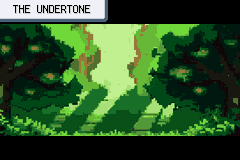
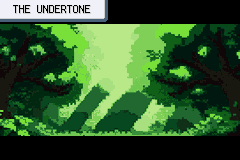
T-445: the place cards approved and built (engine d4a691fd9) -- THE UNDERTONE reseeded (4493), THE SAME BUSH's own card
The user (2026-11-05) approved all four, THE UNDERTONE redrawn first: its shaft's olive-brown streaks were in the
start image -- vanilla edges the light in a pale mint (saturation 0.20) that _region read as rock and the rock ramp
graded brown -- so a place may set white_sat (THE UNDERTONE 0.21) and the mint grades as light; seeds 4490-4495
painted on the clean start image, 4493 picked (no warm colour but near-black, the shaft dim sage, 388 tiles).
PLACES_APPROVED names all four; --write --approved wrote them into the engine, byte-identical to the drafts, a second
write a no-op, report mode writes nothing. Route tools/routes/t445_place_previews.json films each place entered on
foot (GREEN PATH's and BOND BRIDGE's mouths are arrow warps: stand on, hold UP 24). qa 5Nov2026 T445 7-12.

diff --git a/tools/gbapreviews.py b/tools/gbapreviews.py
@@ -76,8 +76,8 @@ the forests and the SAFARI, and --places paints them by the caves' method (vanil
 colours the places are built in now -- THE UNDERTONE's deep understory, DENSE WOOD's golden canopy, the SAFARI's
 grass under LURID's chartreuse -- then painted on the server). THE SAME BUSH (MAPSEC_PATTERN_BUSH) shows THE
 UNDERTONE's picture in the engine; since batch H it is salt scrub on a tileset of its own, so it is drafted as a NEW
-card (pattern_bush, borrowing viridian_forest's letterbox and banner) -- building it is a new INCBIN and a repointed
-MPS_PATTERN_BUSH entry, engine code the user approves first.
+card (pattern_bush, borrowing viridian_forest's letterbox and banner). BUILT 2026-11-05: the user approved all four;
+the engine has pattern_bush's own INCBINs and MPS_PATTERN_BUSH points at them, so --write writes it like the others.
 """
 import argparse, collections, contextlib, io, json, os, re, struct, sys
 sys.path.insert(0, os.path.dirname(os.path.abspath(__file__)))
@@ -233,8 +233,10 @@ PAINT = {
 #  the forests and the SAFARI (--places, drafted 2026-11-05): vanilla's composition graded through the colours each
 #  place is built in now (sampled from reviewsheet's render of its maps), then painted as the caves were. "what" is the
 #  look it is graded from; pattern_bush is a NEW card (THE SAME BUSH shows THE UNDERTONE's picture in the engine).
-#  DRAFTS: nothing is in PLACES_APPROVED, so --write writes none of them.
-PLACES_APPROVED = set()
+#  the user (2026-11-05): "They all look good, and we want to replace all Nintendo art, so I'd say all of them" -- with
+#  THE UNDERTONE redrawn first, its light shaft clean of the olive-brown streaks (white_sat, and a new seed). THE SAME
+#  BUSH's card is its own INCBIN now (sPatternBushMapPreview*, MPS_PATTERN_BUSH repointed to it).
+PLACES_APPROVED = {"viridian_forest", "pattern_bush", "berry_forest", "safari_zone"}
 UNDERTONE = [(16, 30, 22), (28, 52, 34), (42, 82, 44), (58, 112, 56), (88, 150, 80), (132, 188, 84)]
 PLACES = {
     "viridian_forest": dict(
@@ -242,7 +244,8 @@ PLACES = {
         leaf=UNDERTONE, water=[(14, 26, 22), (30, 56, 44), (56, 92, 66)],
         sky=[(82, 112, 78), (150, 176, 120)], white=[(120, 150, 100), (186, 204, 150)],
         rock=[(20, 16, 14), (40, 32, 26), (66, 54, 40), (98, 84, 60), (134, 120, 86)], tex=0.10,
-        seed=4480, denoise=0.48,
+        white_sat=0.21,                 # the shaft's mint edge is light, not rock (it painted olive-brown streaks)
+        seed=4493, denoise=0.48,        # 4480 drafted; 4490-4495 repainted on the clean start image, 4493 picked
         prompt="deep in a forest understory under a heavy dark green canopy, thick dark trunks with twisting "
                "branches, the light from above muted and low, faint dim green shafts, ferns and undergrowth in "
                "shadow, deep green and near-black, a quiet hum of shade",
@@ -405,12 +408,15 @@ def _lum(c):
     return 0.299 * c[0] + 0.587 * c[1] + 0.114 * c[2]
 
 
-def _region(c):
-    """what a pixel of vanilla's painting is: rock (and the ground), white (a lit rock or a cloud), leaf, sky, water"""
+def _region(c, white_sat=0.12):
+    """what a pixel of vanilla's painting is: rock (and the ground), white (a lit rock or a cloud), leaf, sky, water.
+    white_sat (a place's "white_sat"): how grey a bright pixel may be and still be light -- vanilla's forest edges its
+    light shaft in a pale mint (200, 240, 192: saturation 0.20) that the default reads as rock, and the rock ramp
+    graded it into olive-brown streaks down the shaft (the user, 2026-11-05)"""
     import colorsys
     h, sat, v = colorsys.rgb_to_hsv(*[x / 255 for x in c])
     h *= 360
-    if sat < 0.12 and v > 0.85:
+    if sat < white_sat and v > 0.85:
         return "white"
     if 75 <= h <= 170 and sat > 0.2:
         return "leaf"
@@ -438,7 +444,7 @@ def paint_init(folder, sec):
     lums = collections.defaultdict(list)
     for y in range(H):
         for x in range(W):
-            lums[_region(px[x, y])].append(_lum(px[x, y]))
+            lums[_region(px[x, y], c.get("white_sat", 0.12))].append(_lum(px[x, y]))
     rng = {k: (min(l), max(l)) for k, l in lums.items()}
     rock_lo, rock_hi = rng["rock"][0], max(rng["rock"][1], rng.get("white", (0, 0))[1])
     dl = [_lum(dp[x, y]) for y in range(H) for x in range(W)]
@@ -449,7 +455,7 @@ def paint_init(folder, sec):
     for y in range(H):
         for x in range(W):
             p = px[x, y]
-            k = _region(p)
+            k = _region(p, c.get("white_sat", 0.12))
             if k == "white":
                 if c.get("white") == "keep":
                     continue

diff --git a/qa/screenshots/2026-11-05/README.md b/qa/screenshots/2026-11-05/README.md
@@ -19,3 +19,39 @@ THE EUDAIMON LAYER (DRAFT): the cover, BLESSING, and its observer line read in g
 T-445 DRAFT: the name cards. Top, the three key landmarks as built 2026-10-26 (FOUNDRY CO., DAEMON TOWER, DAEMON MANSION) beside vanilla's. Below, drafted 2026-11-05 with gbapreviews.py --places: THE UNDERTONE, THE SAME BUSH (a new card of its own), DENSE WOOD and the SAFARI ZONE, painted in the colours they are built in now; nothing written to the engine.
 
 ![5Nov2026 - T445 - landmark previews - 6](5Nov2026%20-%20T445%20-%20landmark%20previews%20-%206.png)
+
+### 5Nov2026 - T445 - undertone reseeded - 7
+
+T-445: THE UNDERTONE reseeded. The olive-brown streaks were in the start image (vanilla's pale-mint shaft edge read as rock and graded brown), so white_sat 0.21 grades it as light; six seeds painted on the clean start image, 4493 picked (no warm colour but near-black, the shaft dim sage, 388 tiles). Top left: the old seed 4480.
+
+![5Nov2026 - T445 - undertone reseeded - 7](5Nov2026%20-%20T445%20-%20undertone%20reseeded%20-%207.png)
+
+### 5Nov2026 - T445 - place previews built - 8
+
+T-445 built (engine d4a691fd9, not pushed): the four place cards as the DEBUG ROM shows them on entering each place on foot -- THE UNDERTONE (reseeded, 4493) from ROUTE 2's south gate, THE SAME BUSH's own card from GREEN PATH (it showed THE UNDERTONE's), DENSE WOOD from BOND BRIDGE, SAFARI ZONE from its gate. Then each stop's full burst through the fade (route tools/routes/t445_place_previews.json).
+
+![5Nov2026 - T445 - place previews built - 8](5Nov2026%20-%20T445%20-%20place%20previews%20built%20-%208.png)
+
+### 5Nov2026 - T445 - place previews built - 9
+
+T-445 built (engine d4a691fd9, not pushed): the four place cards as the DEBUG ROM shows them on entering each place on foot -- THE UNDERTONE (reseeded, 4493) from ROUTE 2's south gate, THE SAME BUSH's own card from GREEN PATH (it showed THE UNDERTONE's), DENSE WOOD from BOND BRIDGE, SAFARI ZONE from its gate. Then each stop's full burst through the fade (route tools/routes/t445_place_previews.json).
+
+![5Nov2026 - T445 - place previews built - 9](5Nov2026%20-%20T445%20-%20place%20previews%20built%20-%209.png)
+
+### 5Nov2026 - T445 - place previews built - 10
+
+T-445 built (engine d4a691fd9, not pushed): the four place cards as the DEBUG ROM shows them on entering each place on foot -- THE UNDERTONE (reseeded, 4493) from ROUTE 2's south gate, THE SAME BUSH's own card from GREEN PATH (it showed THE UNDERTONE's), DENSE WOOD from BOND BRIDGE, SAFARI ZONE from its gate. Then each stop's full burst through the fade (route tools/routes/t445_place_previews.json).
+
+![5Nov2026 - T445 - place previews built - 10](5Nov2026%20-%20T445%20-%20place%20previews%20built%20-%2010.png)
+
+### 5Nov2026 - T445 - place previews built - 11
+
+T-445 built (engine d4a691fd9, not pushed): the four place cards as the DEBUG ROM shows them on entering each place on foot -- THE UNDERTONE (reseeded, 4493) from ROUTE 2's south gate, THE SAME BUSH's own card from GREEN PATH (it showed THE UNDERTONE's), DENSE WOOD from BOND BRIDGE, SAFARI ZONE from its gate. Then each stop's full burst through the fade (route tools/routes/t445_place_previews.json).
+
+![5Nov2026 - T445 - place previews built - 11](5Nov2026%20-%20T445%20-%20place%20previews%20built%20-%2011.png)
+
+### 5Nov2026 - T445 - place previews built - 12
+
+T-445 built (engine d4a691fd9, not pushed): the four place cards as the DEBUG ROM shows them on entering each place on foot -- THE UNDERTONE (reseeded, 4493) from ROUTE 2's south gate, THE SAME BUSH's own card from GREEN PATH (it showed THE UNDERTONE's), DENSE WOOD from BOND BRIDGE, SAFARI ZONE from its gate. Then each stop's full burst through the fade (route tools/routes/t445_place_previews.json).
+
+![5Nov2026 - T445 - place previews built - 12](5Nov2026%20-%20T445%20-%20place%20previews%20built%20-%2012.png)
